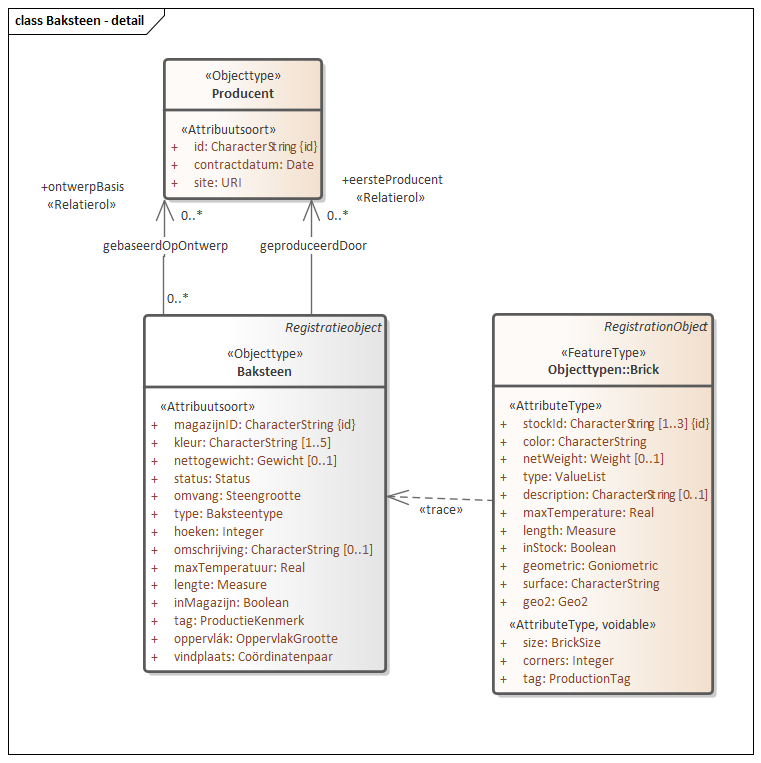
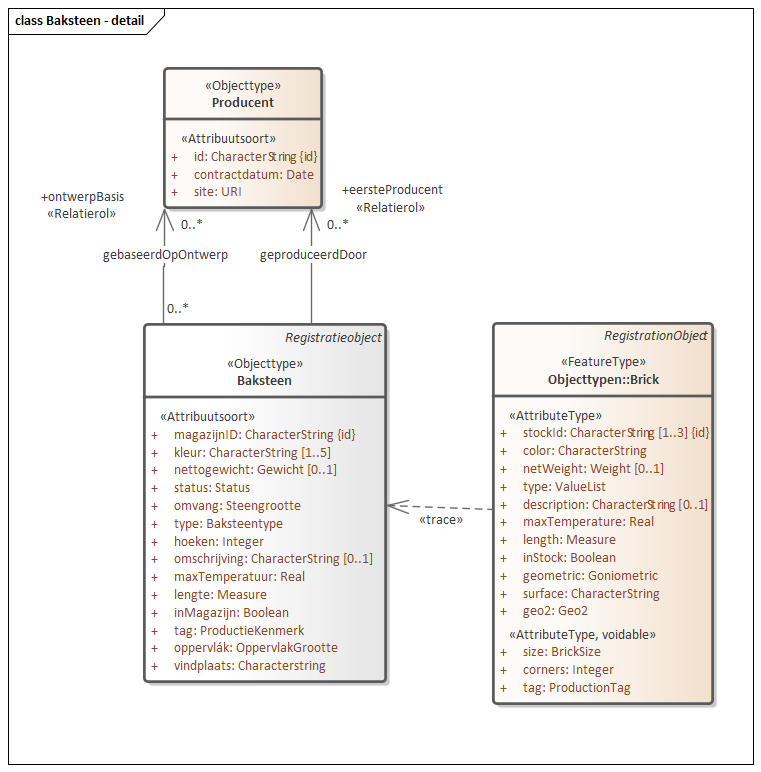
Conceptualmodel-SampleBaseSAMPLE-1.0.0-2-20130318-20200221-095748

diff --git a/data/SAMPLE-cat.msword.html b/data/SAMPLE-cat.msword.html
@@ -12,8 +12,8 @@
                 </style></head>
    <body>
       <p>Conceptual model/SampleBase (SAMPLE)/20130318</p>
-      <p>Imvertor: 1.59.0</p>
-      <p>Model release: Conceptualmodel-SampleBaseSAMPLE-1.0.0-2-20130318-20200213-083840</p>
+      <p>Imvertor: 1.59.1</p>
+      <p>Model release: Conceptualmodel-SampleBaseSAMPLE-1.0.0-2-20130318-20200221-095748</p>
       <hr>
       <section>
          <h1>Artikel 1 Definitie van registratieobject, entiteiten en attributen</h1>
@@ -58,6 +58,10 @@
             <h2>Entiteiten en attributen</h2>
             <section id=""><a class="anchor" id="graph_EAID_CF7C4448_E50C_4c7a_B1D0_C4FCB2EB1814"></a><a class="anchor" id="global_class_Model_Baksteen"></a><section id="global_class_Model_Baksteen">
                   <h3>   Baksteen</h3>
+                  <div class="imageinfo "><img src="Images/EAID_EB759E5B_3FAA_4064_A73E_704926072F89.png" usemap="#imagemap-EAID_EB759E5B_3FAA_4064_A73E_704926072F89" alt="Diagram "><map name="imagemap-EAID_EB759E5B_3FAA_4064_A73E_704926072F89">
+                        <area shape="rect" alt="Producent" coords="164,68,322,208" href="#graph_EAID_04EED45C_4D30_41b9_83EE_65237E1F8E27">
+                        <area shape="rect" alt="Baksteen" coords="144,324,386,682" href="#graph_EAID_CF7C4448_E50C_4c7a_B1D0_C4FCB2EB1814"></map><p><b></b></p>
+                  </div>
                   <table style="width: 100%;">
                      <colgroup style="width: 30%;"></colgroup>
                      <colgroup style="width: 70%;"></colgroup>
@@ -724,7 +728,7 @@
                            </tr>
                            <tr>
                               <th>&nbsp;&nbsp;Naam</th>
-                              <td>Coördinatenpaar</td>
+                              <td>CHARACTERSTRING</td>
                            </tr>
                         </tbody>
                      </table>
